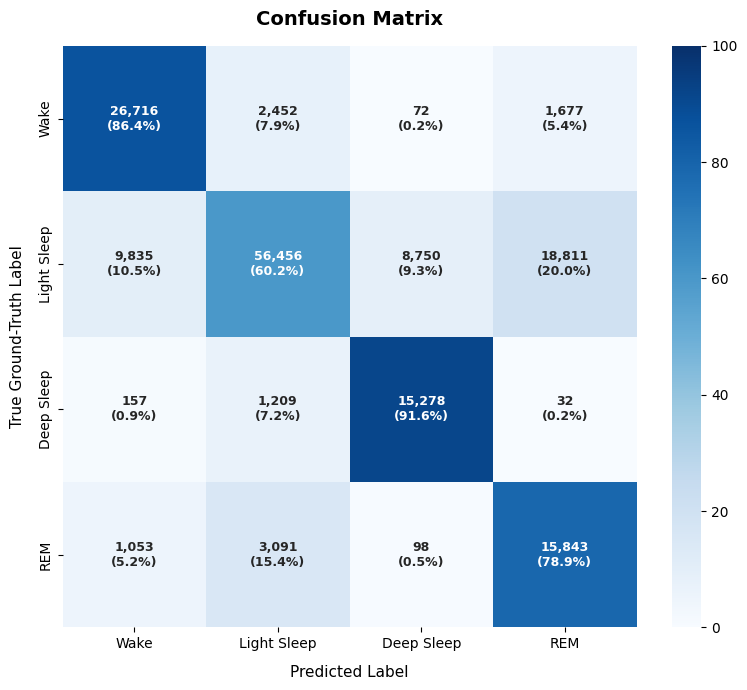
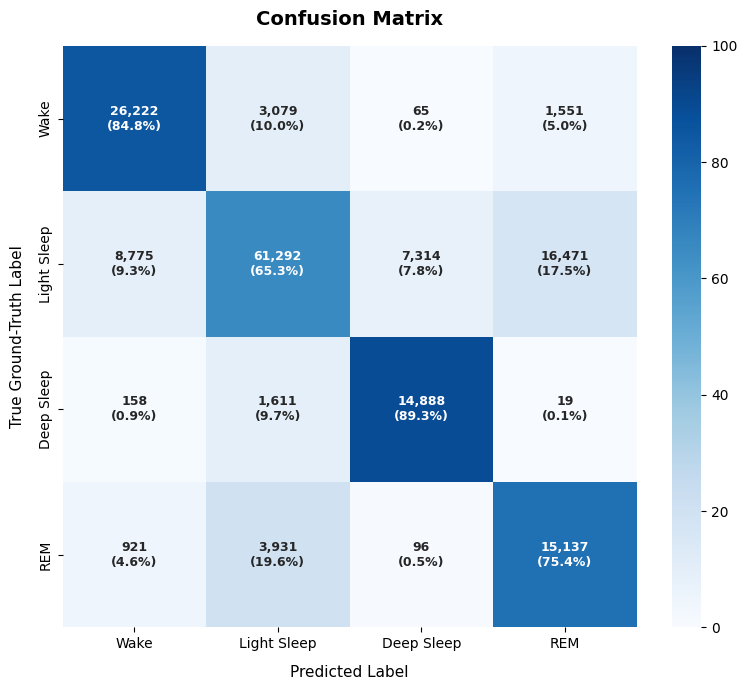
feat: models trained

diff --git a/src/offline/trainer.py b/src/offline/trainer.py
@@ -29,18 +29,18 @@ class ModelTrainer:
 
     def _compute_metrics(self, targets, preds):
         """Calculates all metrics and tags the primary one used for checkpointing."""
-        acc = balanced_accuracy_score(targets, preds)
+        bal_acc = balanced_accuracy_score(targets, preds)
         
         if self.task_type == "binary":
             f1 = f1_score(targets, preds, zero_division=0)
             prec = precision_score(targets, preds, zero_division=0)
             # For arousals, we keep Precision as the target to save the "best" model 
             # (based on your original train_arousals.py), but we return all of them.
-            return {'primary': prec, 'acc': acc, 'f1': f1}
+            return {'primary': prec, 'acc': bal_acc, 'f1': f1}
         else:
             f1 = f1_score(targets, preds, average='macro', zero_division=0)
             # For sleep stages, Accuracy is usually the standard target for the "best" model
-            return {'primary': acc, 'acc': acc, 'f1': f1}
+            return {'primary': bal_acc, 'acc': bal_acc, 'f1': f1}
 
     def fit(self, train_loader, val_loader, run_dir, class_names):
         for epoch in range(self.config.epochs):

diff --git a/src/offline/config.py b/src/offline/config.py
@@ -76,12 +76,12 @@ class TrainSleepStagesConfig:
     train_path: str = "data/processed/sleep_stage/sleep_stages_train.npz"
     test_path: str = "data/processed/sleep_stage/sleep_stages_test.npz"
     out_path: str = "models/sleep_stage"
-    stage_names = ['Wake', 'Light Sleep', 'Deep Sleep', 'REM']
+    class_names = ['Wake', 'Light Sleep', 'Deep Sleep', 'REM']
     batch_size: int = 256
     num_workers: int = 4
     train_balance: list = field(
-        default_factory=lambda: [1.1, 0.6, 1.5, 1.8]
+        default_factory=lambda: [1.0, 0.6, 1.4, 1.8]
     )
     lr: float = 5e-5
-    weight_decay: float = 1e-3
+    weight_decay: float = 1e-2
     eta_min: float = 1e-6

diff --git a/scripts/train/train_sleep_stage.py b/scripts/train/train_sleep_stage.py
@@ -35,7 +35,7 @@ def main():
         scheduler=scheduler, device=device, config=cfg, task_type="multiclass"
     )
     
-    trainer.fit(train_loader, val_loader, RUN_DIR, class_names=cfg.stage_names)
+    trainer.fit(train_loader, val_loader, RUN_DIR, class_names=cfg.class_names)
 
 if __name__ == "__main__":
     main()
